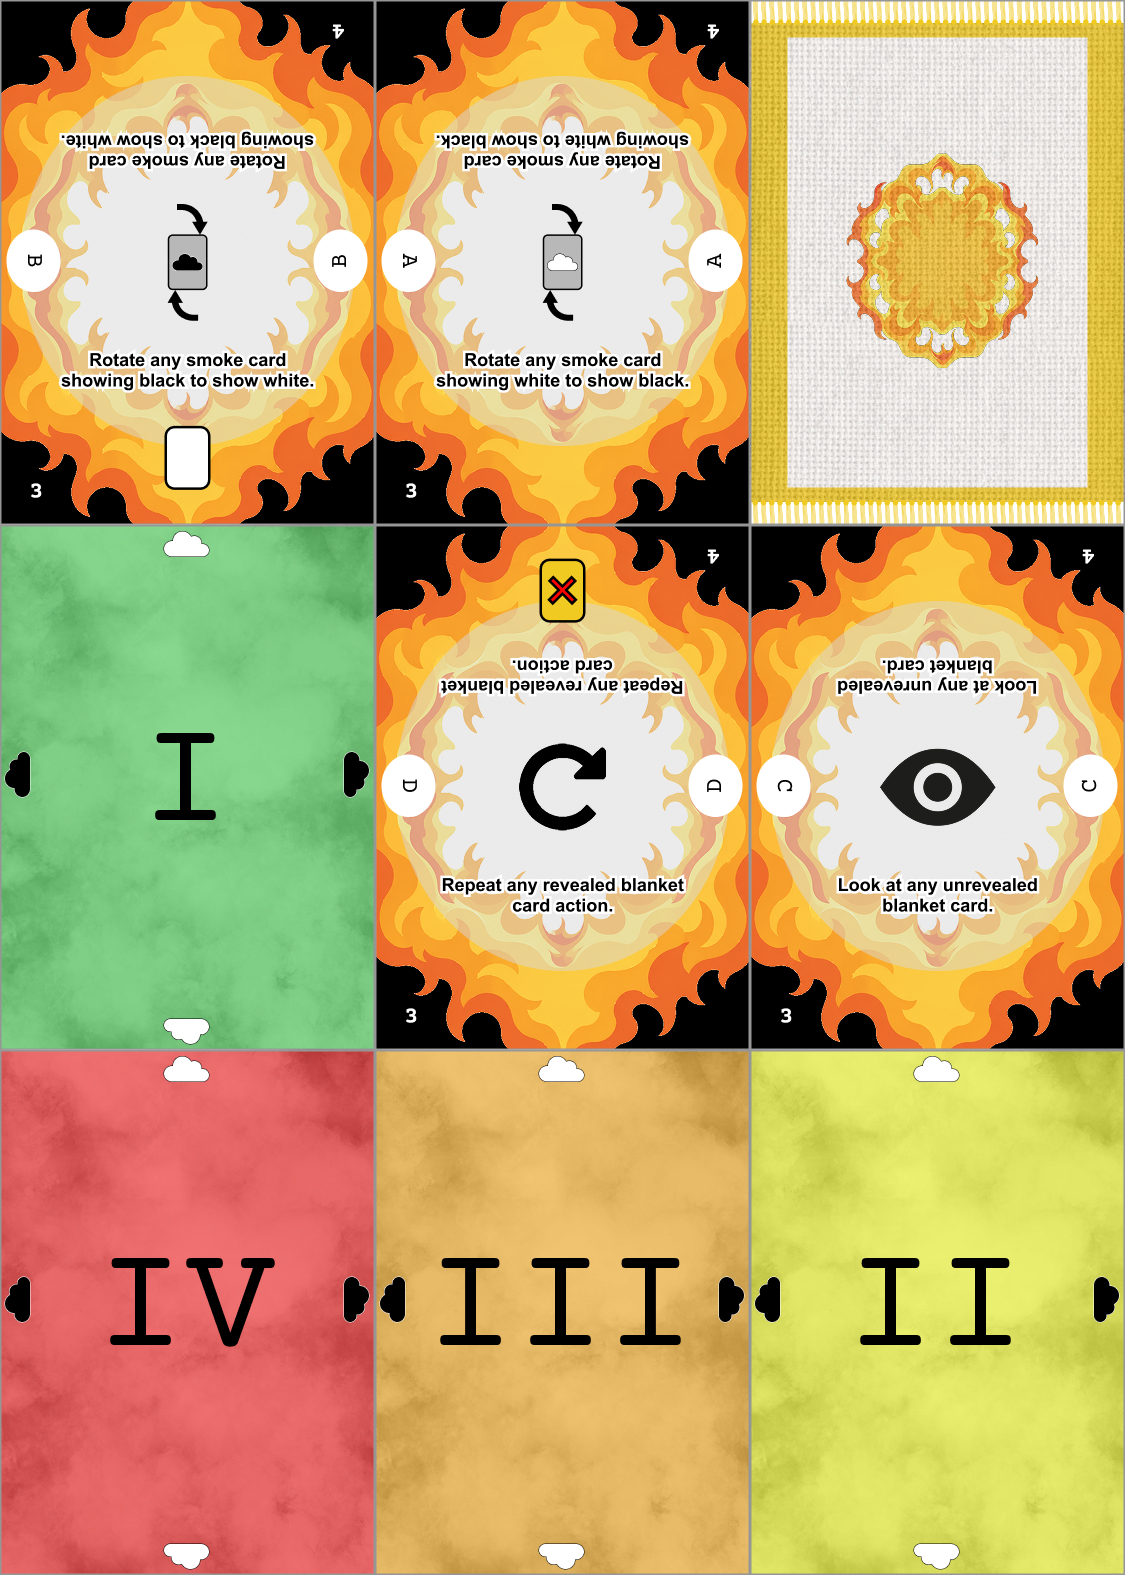
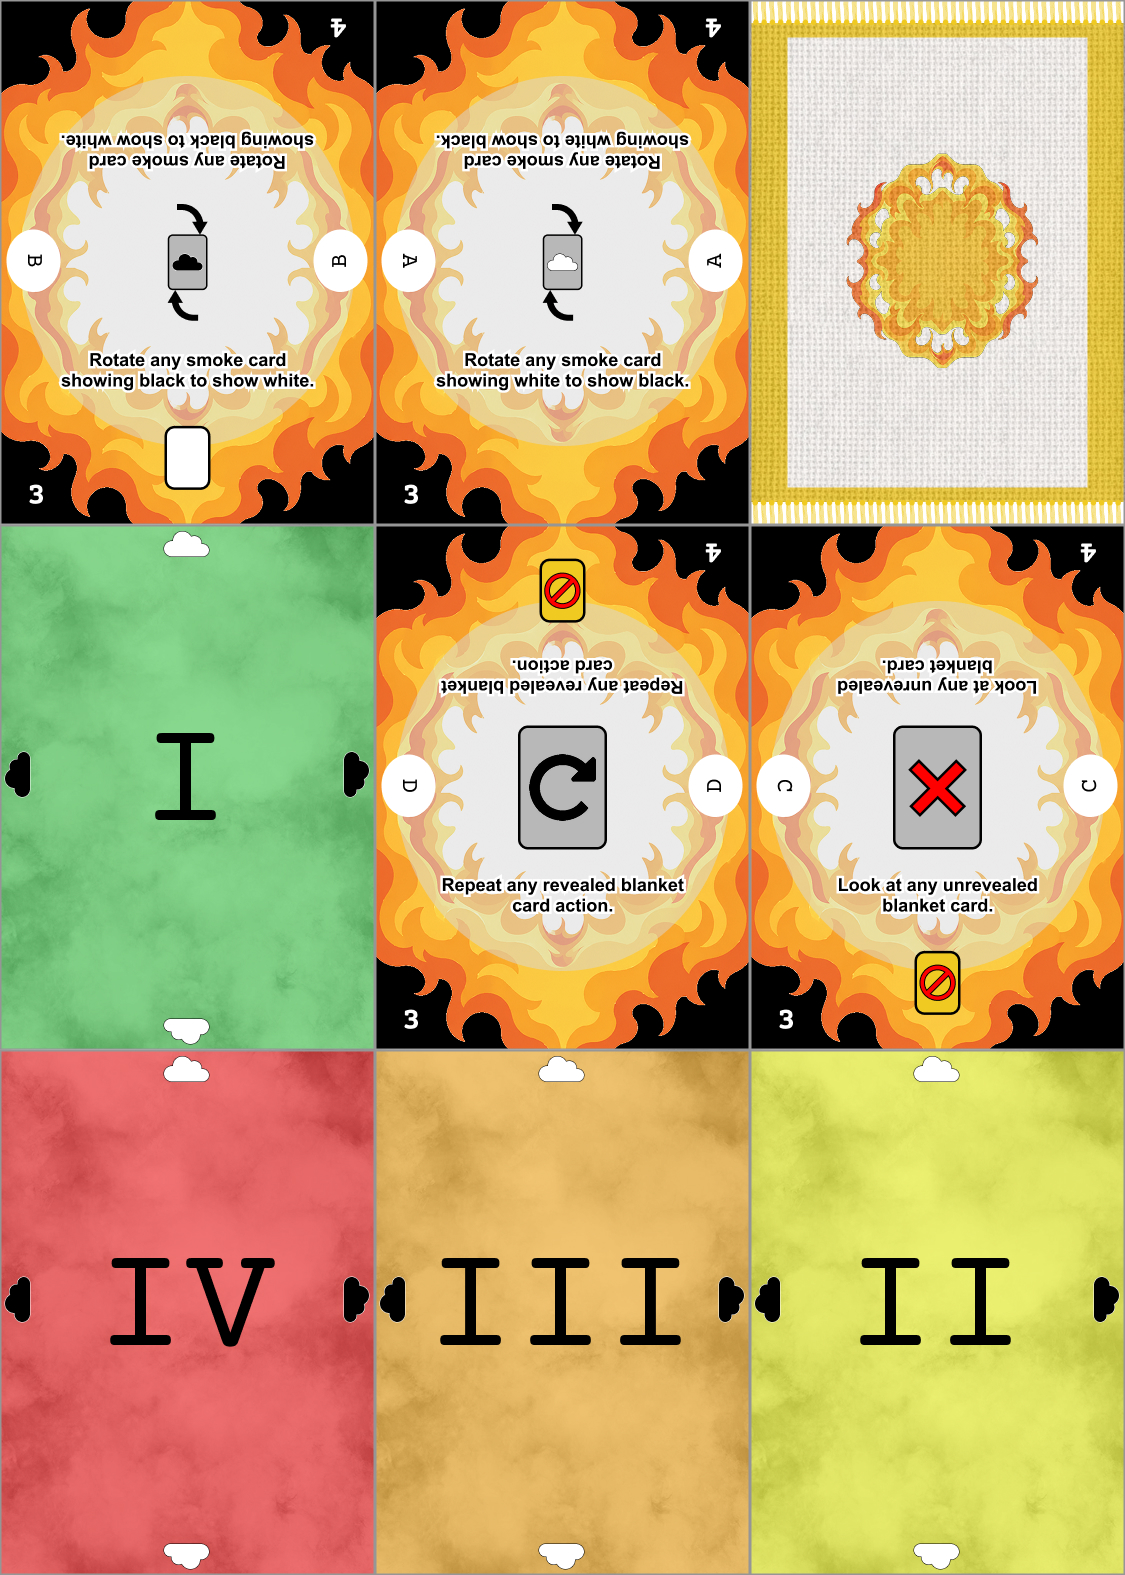
Added cancel action

diff --git a/smoke-signals/src/game/index.ts b/smoke-signals/src/game/index.ts
@@ -132,6 +132,7 @@ export class SmokeSignalsGame extends Game<SmokeSignalsGame, SmokeSignalsPlayer>
   }
 
   prepareNextRound() {
+    this.game.all(BlanketCard).forEach(card => card.rotation = 0);
     this.players.forEach(player => {
       const space = this.playerSpace(player);
 
@@ -244,8 +245,8 @@ export class SmokeSignalsGame extends Game<SmokeSignalsGame, SmokeSignalsPlayer>
           case FireCardAction.Repeat:
             this.queueGoldAction('repeatBlanketAction');
             break;
-          case FireCardAction.Peek:
-            this.queueGoldAction('peekBlanket');
+          case FireCardAction.Cancel:
+            this.queueGoldAction('cancelBlanketAction');
             break;
         }
     }
@@ -285,7 +286,7 @@ export enum FireCardAction {
   RotateBlack,
   RotateWhite,
   Repeat,
-  Peek
+  Cancel
 }
 
 export enum SmokeColor {
@@ -450,14 +451,14 @@ function createC2(game: SmokeSignalsGame) {
   game.create(FireEdge, 'fireEdgeBottom' + nextBottomEdgeIndex(game), { edge: Edge.Bottom, index: nextBottomEdgeIndex(game) });
 }
 function createC3(game: SmokeSignalsGame) {
-  const c = game.create(FireCard, 'fire-card-c3', {action: FireCardAction.Peek});
+  const c = game.create(FireCard, 'fire-card-c3', {action: FireCardAction.Cancel});
   game.create(FireEdge, 'fireEdgeTop' + nextTopEdgeIndex(game), { edge: Edge.Top, index: nextTopEdgeIndex(game) });
-  game.create(FireEdge, 'fireEdgeBottom' + nextBottomEdgeIndex(game), { edge: Edge.Bottom, index: nextBottomEdgeIndex(game) });
+  game.create(FireEdge, 'fireEdgeBottom' + nextBottomEdgeIndex(game), { edge: Edge.Bottom, index: nextBottomEdgeIndex(game), restriction: Restriction.NoGold });
 }
 function createC4(game: SmokeSignalsGame) {
-  const c = game.create(FireCard, 'fire-card-c4', {action: FireCardAction.Peek});
+  const c = game.create(FireCard, 'fire-card-c4', {action: FireCardAction.Cancel});
   c.rotation = 180;
-  game.create(FireEdge, 'fireEdgeTop' + nextTopEdgeIndex(game), { edge: Edge.Top, index: nextTopEdgeIndex(game) });
+  game.create(FireEdge, 'fireEdgeTop' + nextTopEdgeIndex(game), { edge: Edge.Top, index: nextTopEdgeIndex(game), restriction: Restriction.NoGold });
   game.create(FireEdge, 'fireEdgeBottom' + nextBottomEdgeIndex(game), { edge: Edge.Bottom, index: nextBottomEdgeIndex(game) });
 }
 function createD1(game: SmokeSignalsGame) {
@@ -797,17 +798,17 @@ export default createGame(SmokeSignalsPlayer, SmokeSignalsGame, game => {
       game.message('Activate Gold.');
       game.performBlanketAction(blanket);
     }),
-    peekBlanket: (player) => action({
-      prompt: 'Choose a blanket card to peek.',
-      condition: () => game.pendingGoldAction === 'peekBlanket',
+    cancelBlanketAction: (player) => action({
+      prompt: 'Choose a blanket card to cancel.',
+      condition: () => game.pendingGoldAction === 'cancelBlanketAction',
     }).chooseOnBoard(
-      'blanket',
-      () => game.all(BlanketCard).filter(x => !x.isVisibleTo(player)),
+      'edge',
+      () => game.all(FireEdge).filter(x => !x.first(BlanketCard)!.isVisible()),
       { skipIf: 'never' }
-    ).do(({ blanket }) => {
+    ).do(({ edge }) => {
       game.clearPendingGoldAction();
       game.message('Activate Gold.');
-      blanket.showOnlyTo(player);
+      edge.all(BlanketCard).forEach(x => x.rotation = 90);
     }),
   });
 
@@ -860,6 +861,7 @@ export default createGame(SmokeSignalsPlayer, SmokeSignalsGame, game => {
                 const edge = game.revealOrder()[revealStep];
                 return edge ? game.revealPlayerForEdge(edge) : game.players[0];
               },
+              condition: ({revealStep}) => game.revealOrder()[revealStep].first(BlanketCard)?.rotation === 0,
               actions: ['revealCurrentEdge'],
             }),
             playerActions({
@@ -868,7 +870,8 @@ export default createGame(SmokeSignalsPlayer, SmokeSignalsGame, game => {
                 const edge = game.revealOrder()[revealStep];
                 return edge ? game.revealPlayerForEdge(edge) : game.players[0];
               },
-              condition: () => (game.currentRevealEdgeSpace()?.all(BlanketCard).length ?? 0) === 2,
+              condition: () => (game.currentRevealEdgeSpace()?.all(BlanketCard).length ?? 0) === 2 && 
+                game.currentRevealEdgeSpace()?.first(BlanketCard)?.rotation === 0,
               actions: ['activateRevealedBlanket'],
             }),
             playerActions({
@@ -935,13 +938,13 @@ export default createGame(SmokeSignalsPlayer, SmokeSignalsGame, game => {
               actions: ['repeatBlanketAction'],
             }),
             playerActions({
-              name: 'resolve-peek-gold-action',
+              name: 'resolve-cancel-gold-action',
               player: ({ revealStep }) => {
                 const edge = game.revealOrder()[revealStep];
                 return edge ? game.revealPlayerForEdge(edge) : game.players[0];
               },
-              condition: () => game.pendingGoldAction === 'peekBlanket',
-              actions: ['peekBlanket'],
+              condition: () => game.pendingGoldAction === 'cancelBlanketAction',
+              actions: ['cancelBlanketAction'],
             }),
           ],
         }),
